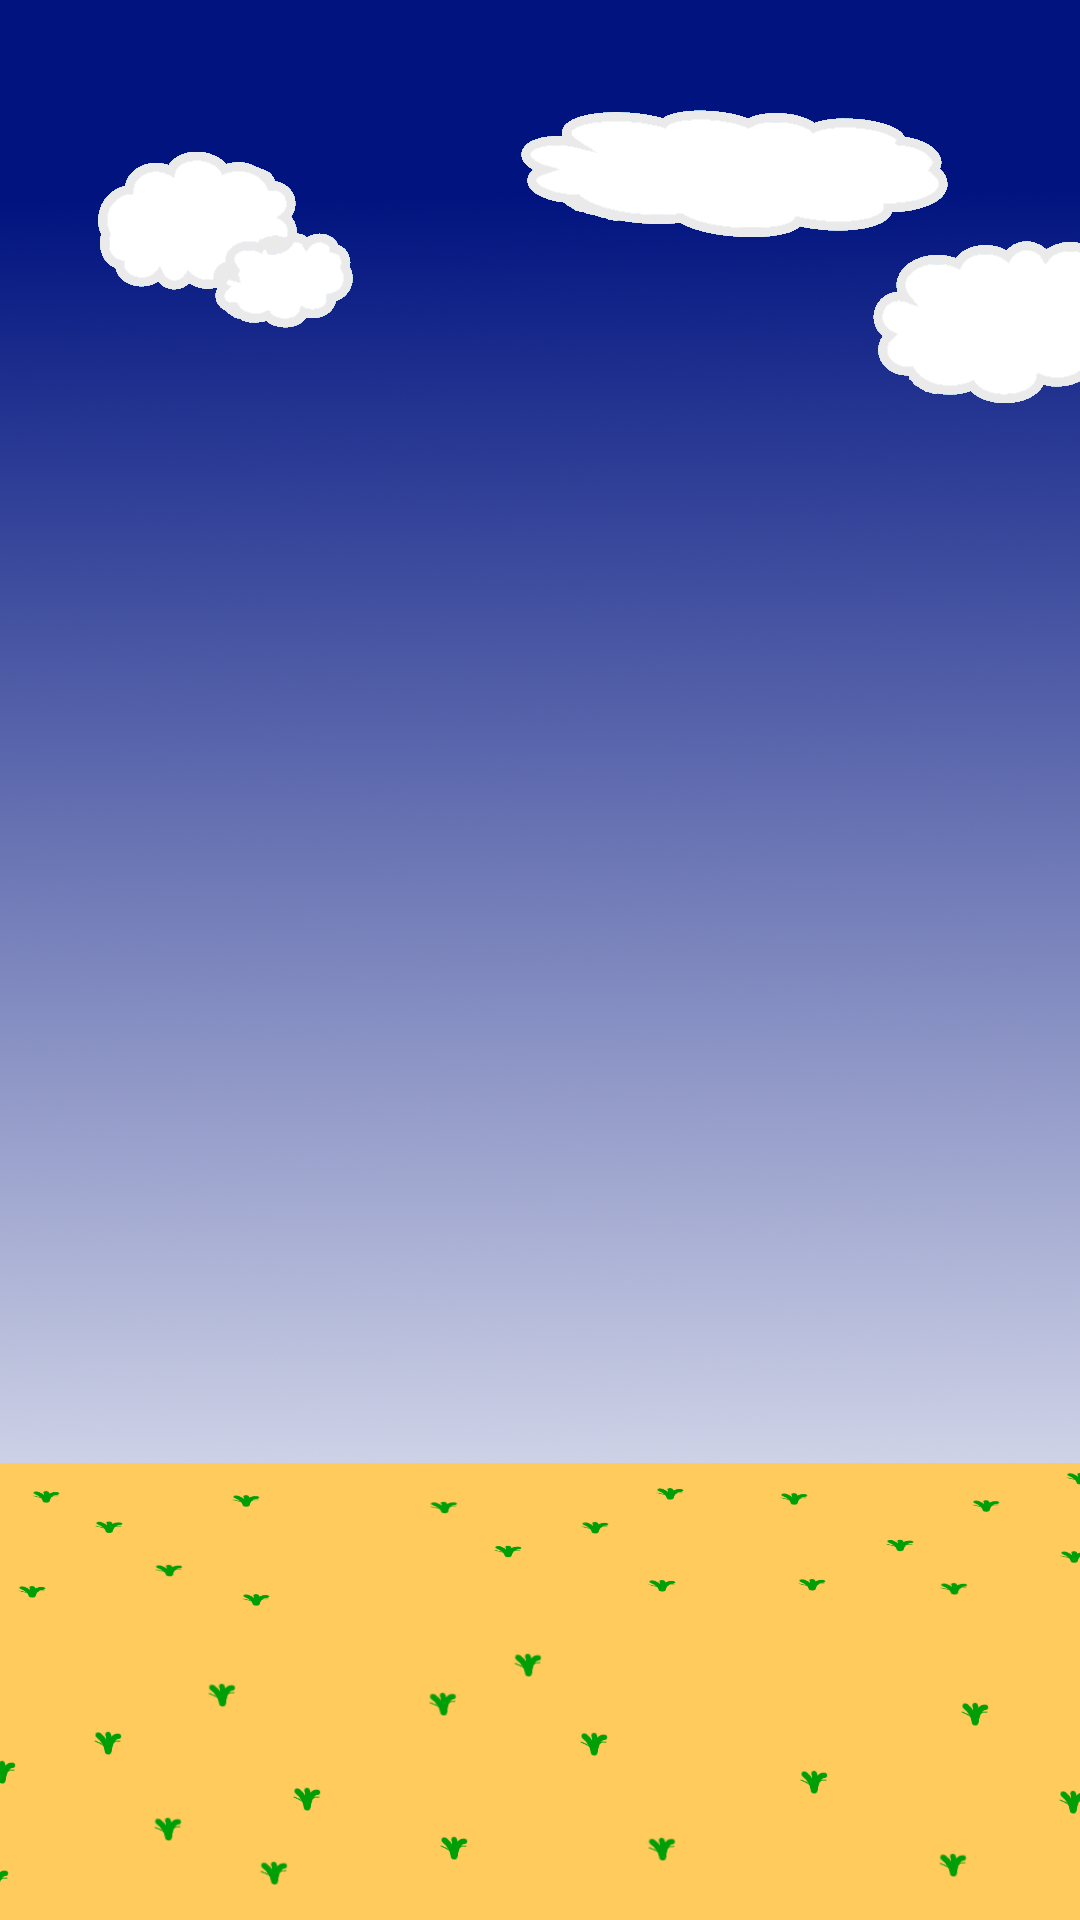
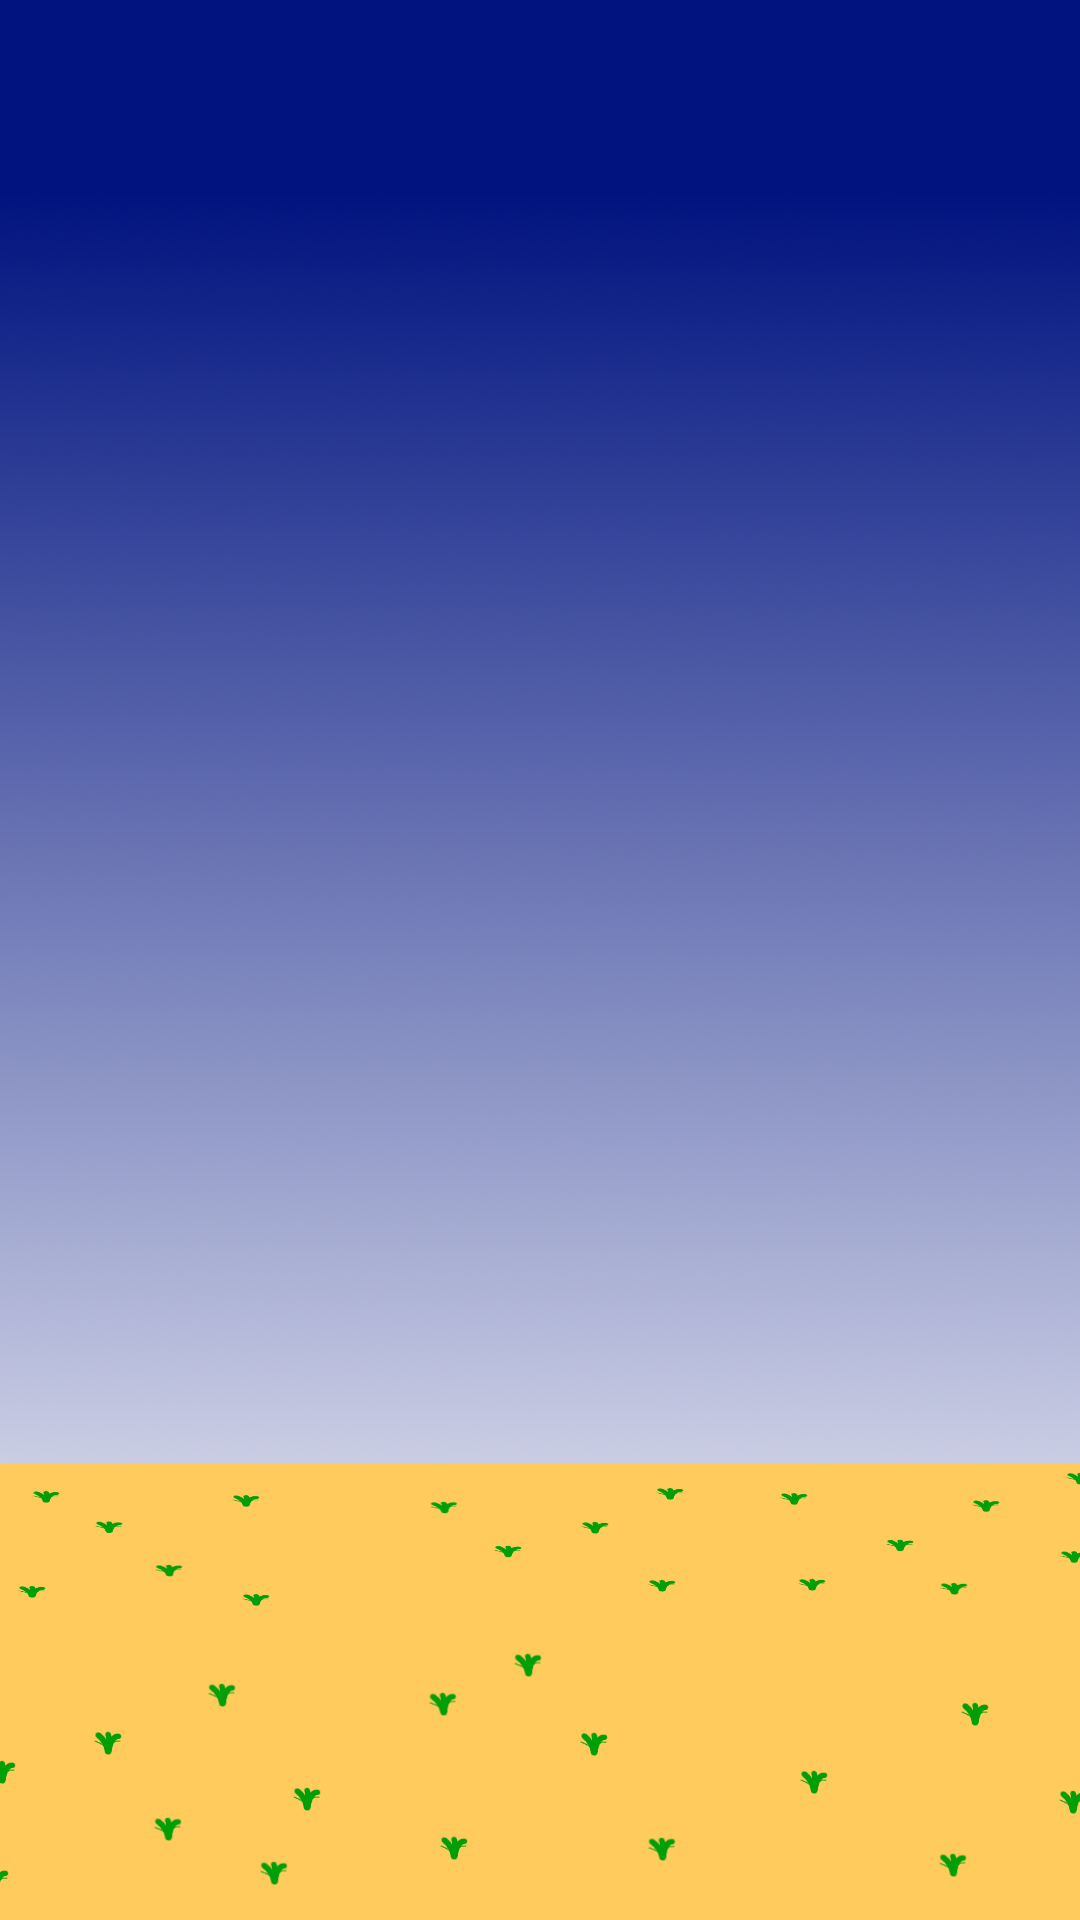
Ajout Nuages de font qui bougent (basic Version)

Changed region(s): [[0.4889, 0.0312, 1.0, 0.2188], [0.0917, 0.0625, 0.3361, 0.1875]]

diff --git a/core/src/com/fixthewall/game/screens/GameScreen.java b/core/src/com/fixthewall/game/screens/GameScreen.java
@@ -17,6 +17,7 @@ import com.badlogic.gdx.scenes.scene2d.ui.TextButton;
 import com.badlogic.gdx.scenes.scene2d.utils.ChangeListener;
 import com.badlogic.gdx.scenes.scene2d.utils.ClickListener;
 import com.fixthewall.game.actors.Ennemi;
+import com.fixthewall.game.actors.Nuages;
 import com.fixthewall.game.actors.Wall;
 import com.fixthewall.game.Game;
 import com.fixthewall.game.logic.BadGuysLogic;
@@ -38,6 +39,7 @@ public class GameScreen implements Screen {
         Texture textureFond = game.ass.get("fondWall.png");
 
         Image imgFond = new Image(textureFond);
+        Nuages nuages = new Nuages(game.ass);
         Wall wall = new Wall(game.ass);
         ennemiGroup = new Group();
         hammer = new Hammer(game.ass);
@@ -88,9 +90,11 @@ public class GameScreen implements Screen {
 
         //Add all the things to runescape
         stage.addActor(imgFond);
+        stage.addActor(nuages);
         stage.addActor(wall);
-        stage.addActor(ennemiGroup);
-        ennemiGroup.addActor(ennemi);
+        //stage.addActor(ennemiGroup);
+        stage.addActor(ennemi);
+        //ennemiGroup.addActor(ennemi);
         stage.addActor(upsButton);
         stage.addActor(bricksLabel);
         stage.addActor(healthLabel);

diff --git a/core/src/com/fixthewall/game/actors/Nuages.java b/core/src/com/fixthewall/game/actors/Nuages.java
@@ -1,0 +1,41 @@
+package com.fixthewall.game.actors;
+
+import com.badlogic.gdx.assets.AssetManager;
+import com.badlogic.gdx.graphics.Texture;
+import com.badlogic.gdx.graphics.g2d.Batch;
+import com.badlogic.gdx.graphics.g2d.TextureRegion;
+import com.badlogic.gdx.scenes.scene2d.Actor;
+import com.badlogic.gdx.scenes.scene2d.Touchable;
+import com.badlogic.gdx.scenes.scene2d.actions.Actions;
+
+public class Nuages extends Actor {
+
+    private TextureRegion texture;
+    private static final float TARGET = -3200f;
+    private static final float TIME = 160f;
+
+    public Nuages (AssetManager ass){
+        //set position
+        setCoor();
+        setTouchable(Touchable.disabled); // clik through
+
+        texture = new TextureRegion(ass.get("nuages.png", Texture.class));
+
+        this.addAction(Actions.moveTo(TARGET, this.getY(), TIME));
+    }
+
+    @Override
+    public void draw(Batch batch, float parentAlpha) {
+        if(this.getX()== TARGET){
+            this.setX(1080f);
+            this.addAction(Actions.moveTo(TARGET, this.getY(), TIME));
+        }
+        batch.draw(texture, this.getX(), this.getY());
+    }
+
+    private void setCoor(){
+        this.setX(1080f);
+        this.setY(1500f);
+    }
+
+}

diff --git a/core/src/com/fixthewall/game/Game.java b/core/src/com/fixthewall/game/Game.java
@@ -87,6 +87,7 @@ public class Game extends com.badlogic.gdx.Game {
         ass.load("badGuysRSheet.png", Texture.class);
         ass.load("fondWall.png", Texture.class);
         ass.load("fondWall-nuit.png", Texture.class);
+        ass.load("nuages.png", Texture.class);
         ass.load("marteau.png", Texture.class);
         ass.load("pioche.png", Texture.class);
         ass.load("texture_button.png", Texture.class);
